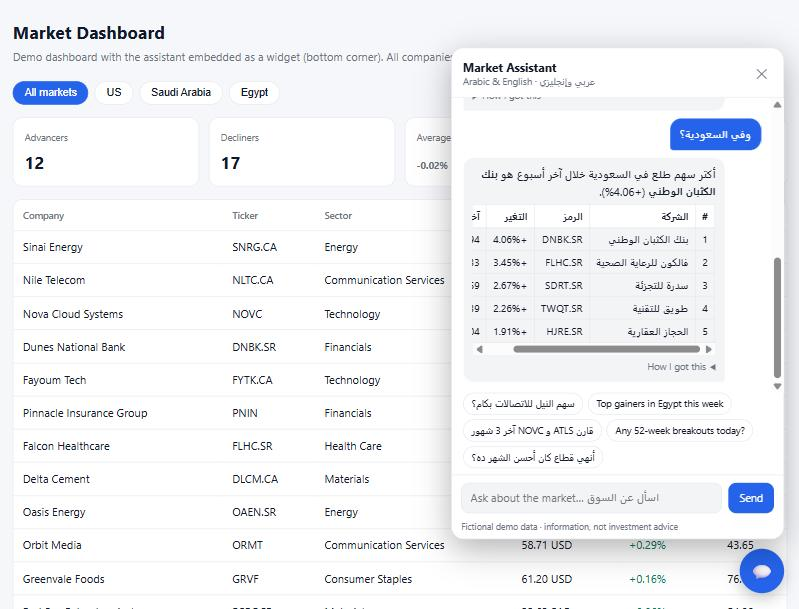
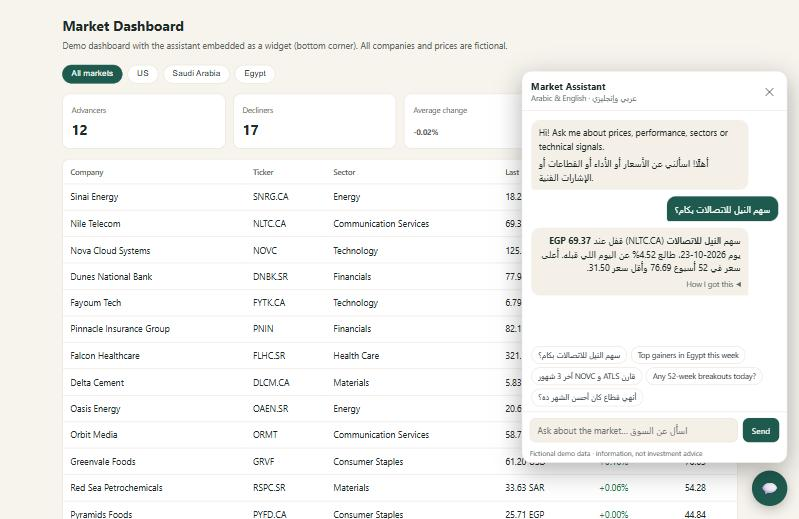
Document the local app and refresh screenshots

diff --git a/docs/DESKTOP.md b/docs/DESKTOP.md
@@ -1,0 +1,89 @@
+# Local app
+
+Run the assistant as a private app on your own computer, with your own data and your own AI keys.
+
+```bash
+pip install -e .
+python -m market_assistant app                 # opens in its own window (Edge or Chrome app mode)
+python -m market_assistant app --no-window     # just start it, then open http://127.0.0.1:8765/app
+python -m market_assistant app --port 9000
+```
+
+The app has three pages:
+
+- **Chat:** the same assistant as the API, streaming, with "How I got this" showing the tools and steps behind each answer.
+- **Connections:** where the data comes from and which AI providers to use.
+- **About:** what runs where.
+
+## Data
+
+| Source | What to give it |
+|---|---|
+| Demo | Nothing: 30 fictional companies with synthetic prices. |
+| CSV files | `companies.csv` and `daily_prices.csv`, optionally `fundamentals.csv` (formats below). |
+| SQLite | The path of a database file with the same tables. It is opened read-only. |
+| PostgreSQL | A `postgresql://` URL for a **read-only** user (see [DEPLOYMENT.md](DEPLOYMENT.md) for the role). |
+
+Switching is atomic: if the new source fails to open or has no companies, the app keeps the one that works and says why.
+
+### CSV formats
+
+UTF-8 (with or without BOM), header row required, one row per line.
+
+`companies.csv`
+
+| Column | Rule |
+|---|---|
+| `ticker` | Letters, digits, `.`, `_`, `-`; unique |
+| `name_en` | Required |
+| `name_ar` | Optional |
+| `sector` | Required |
+| `country` | 2-letter code, e.g. `US`, `SA`, `EG` |
+| `exchange` | Required |
+| `currency` | 3-letter code, e.g. `USD` |
+| `shares_outstanding_m` | Optional, millions |
+
+`daily_prices.csv`: `ticker, date (YYYY-MM-DD), open, high, low, close, volume`. Prices must be positive,
+`low ≤ open, close ≤ high`, one row per ticker and date, and every ticker must exist in `companies.csv`.
+
+`fundamentals.csv` (optional): `ticker, fiscal_year, revenue_m, net_income_m, eps`.
+
+On import the app computes 50- and 200-day moving averages, RSI(14), 52-week highs and lows, 20-day average
+volume and the technical signals (golden and death crosses, 52-week breakouts, RSI below 30 or above 70, volume
+spikes above 2.5× the 20-day average). An invalid row stops the import with
+the file and line number, and the previous data stays in use.
+
+A period longer than your history (for example "this year" with three months of prices) gets a clear
+"not enough history" answer rather than a number measured over a shorter window.
+
+## AI providers
+
+Add one or more OpenAI-compatible providers. Presets fill in the address for Gemini, Groq, OpenRouter and a local
+Ollama model; any other compatible endpoint works too. With several providers, they are tried in order: when one is
+out of quota, rate limited, unreachable or rejects the key, the next one answers and the failing one rests for a
+while. **Test** sends one tiny request and reports only the kind of problem (quota, rate limit, bad key,
+unreachable), never the provider's raw response.
+
+With no provider, or when all are unavailable, the app still answers using the built-in rule planner and templates.
+
+## Security
+
+The app holds API keys, so it is built like one:
+
+| Threat | Protection |
+|---|---|
+| Other devices on the network | Listens on `127.0.0.1` only. |
+| A website you visit calling the app (CSRF) | Settings endpoints need a token created at each launch and embedded in the app page. Browsers do not let other sites read that page, so they cannot get the token. Requests with a foreign `Origin` are refused. |
+| DNS rebinding | Every request must carry a `Host` of `127.0.0.1:<port>` or `localhost:<port>`; anything else gets `421`. |
+| Keys leaking to the page | Keys and database passwords are never returned by any endpoint, only a masked hint (`••••7890`). Saving with an empty key keeps the stored one. |
+| Keys leaking in errors | Validation errors are returned without the submitted values; provider tests return the problem kind only. |
+| Embedding the app in another site | `frame-ancestors 'none'`, `X-Frame-Options: DENY`, a strict Content-Security-Policy and `no-referrer`. |
+| Plain-text keys over the network | Provider addresses must be `https`, except a model running on your own machine. |
+| Writing to your data | SQLite is opened read-only, PostgreSQL should use a read-only user, and every query goes through the same validation as the API ([SECURITY.md](SECURITY.md)). |
+
+Settings are saved in `~/.bilingual-market-assistant/settings.json` (on Windows,
+`C:\Users\<you>\.bilingual-market-assistant\`), written atomically. On macOS and Linux the file is readable by
+you only (`0600`); on Windows it inherits the permissions of your user profile. Imported CSV data is stored next to
+it as `my-data.db`. To reset the app, close it and delete that folder.
+
+Each test in `tests/desktop/` covers one of these rules.
